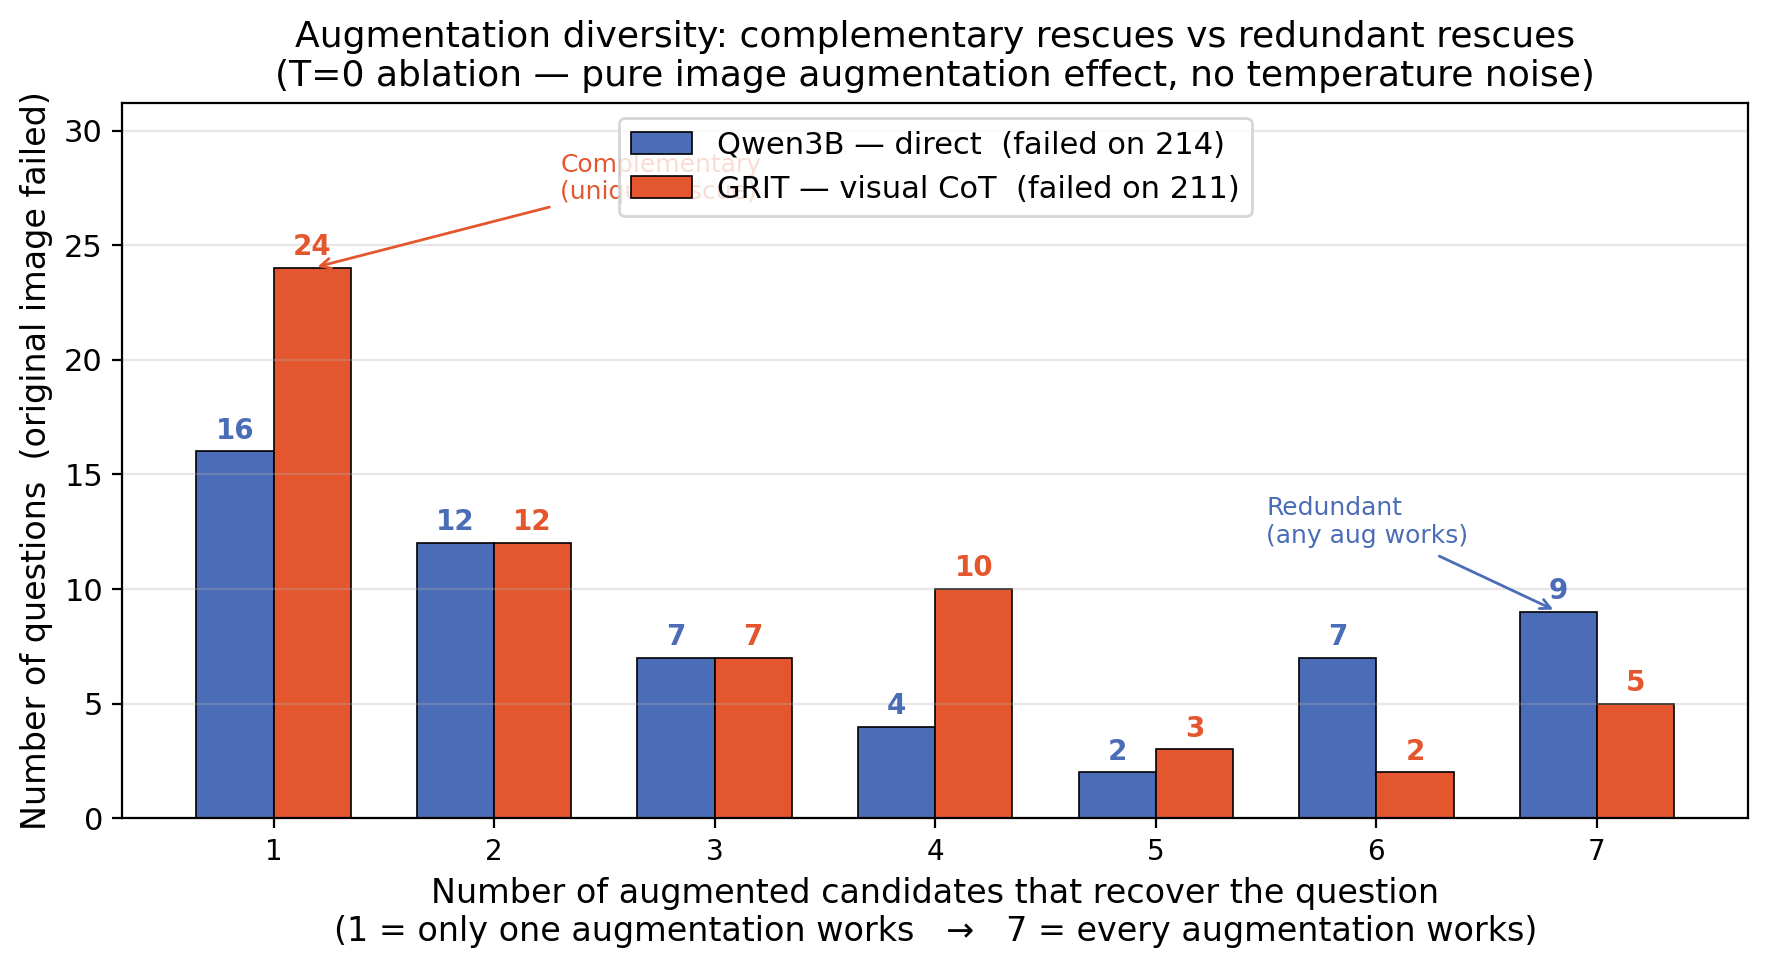
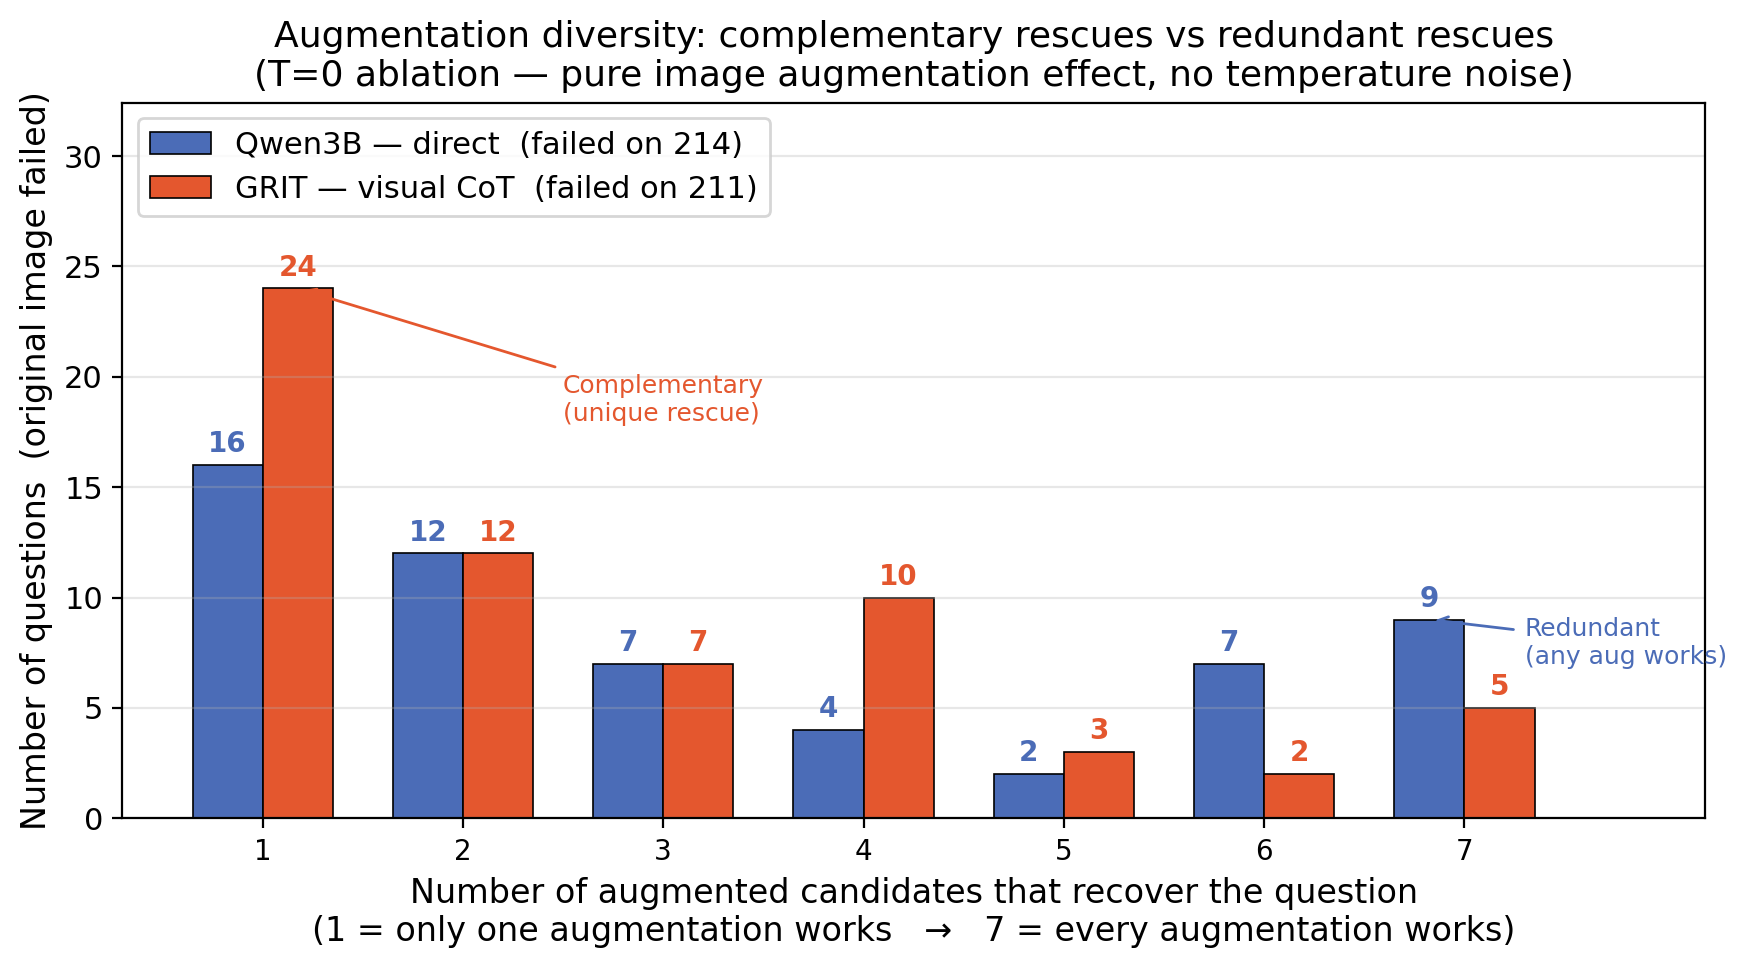
fix: E_augmentation_diversity — move annotations to avoid legend overlap
- Legend moved to upper left (was upper center, clashing with Redundant label)
- "Redundant (any aug works)" repositioned to right of x=7 bar with ha=left
- "Complementary (unique rescue)" moved below legend to stay visible
- Extend xlim to 8.2 to give room for right-side annotation

diff --git a/scripts/fig_augmentation_value.py b/scripts/fig_augmentation_value.py
@@ -150,17 +150,21 @@ def fig_slot_marginal():
     ax.set_ylabel("Number of questions  (original image failed)")
     ax.set_title("Augmentation diversity: complementary rescues vs redundant rescues\n"
                  "(T=0 ablation — pure image augmentation effect, no temperature noise)")
-    ax.legend(loc="upper center")
+    ax.legend(loc="upper left")
     ax.grid(axis="y", alpha=0.3)
-    ax.set_ylim(0, max(max(qwen_vals), max(grit_vals)) * 1.3)
+    ymax = max(max(qwen_vals), max(grit_vals))
+    ax.set_ylim(0, ymax * 1.35)
+    ax.set_xlim(0.3, 8.2)
 
-    # Annotations
+    # Annotations — placed to the right of the bars they label
     ax.annotate("Redundant\n(any aug works)", xy=(7 - w/2, qwen_dist.get(7, 0)),
-                xytext=(5.5, qwen_dist.get(7, 0) + 3),
-                arrowprops=dict(arrowstyle="->", color=COL_QWEN), color=COL_QWEN, fontsize=9)
+                xytext=(7.3, qwen_dist.get(7, 0) - 2),
+                arrowprops=dict(arrowstyle="->", color=COL_QWEN), color=COL_QWEN,
+                fontsize=9, ha="left")
     ax.annotate("Complementary\n(unique rescue)", xy=(1 + w/2, grit_dist.get(1, 0)),
-                xytext=(2.3, grit_dist.get(1, 0) + 3),
-                arrowprops=dict(arrowstyle="->", color=COL_GRIT), color=COL_GRIT, fontsize=9)
+                xytext=(2.5, grit_dist.get(1, 0) - 6),
+                arrowprops=dict(arrowstyle="->", color=COL_GRIT), color=COL_GRIT,
+                fontsize=9, ha="left")
 
     fig.tight_layout()
     path = FIG_DIR / "E_augmentation_diversity.png"
